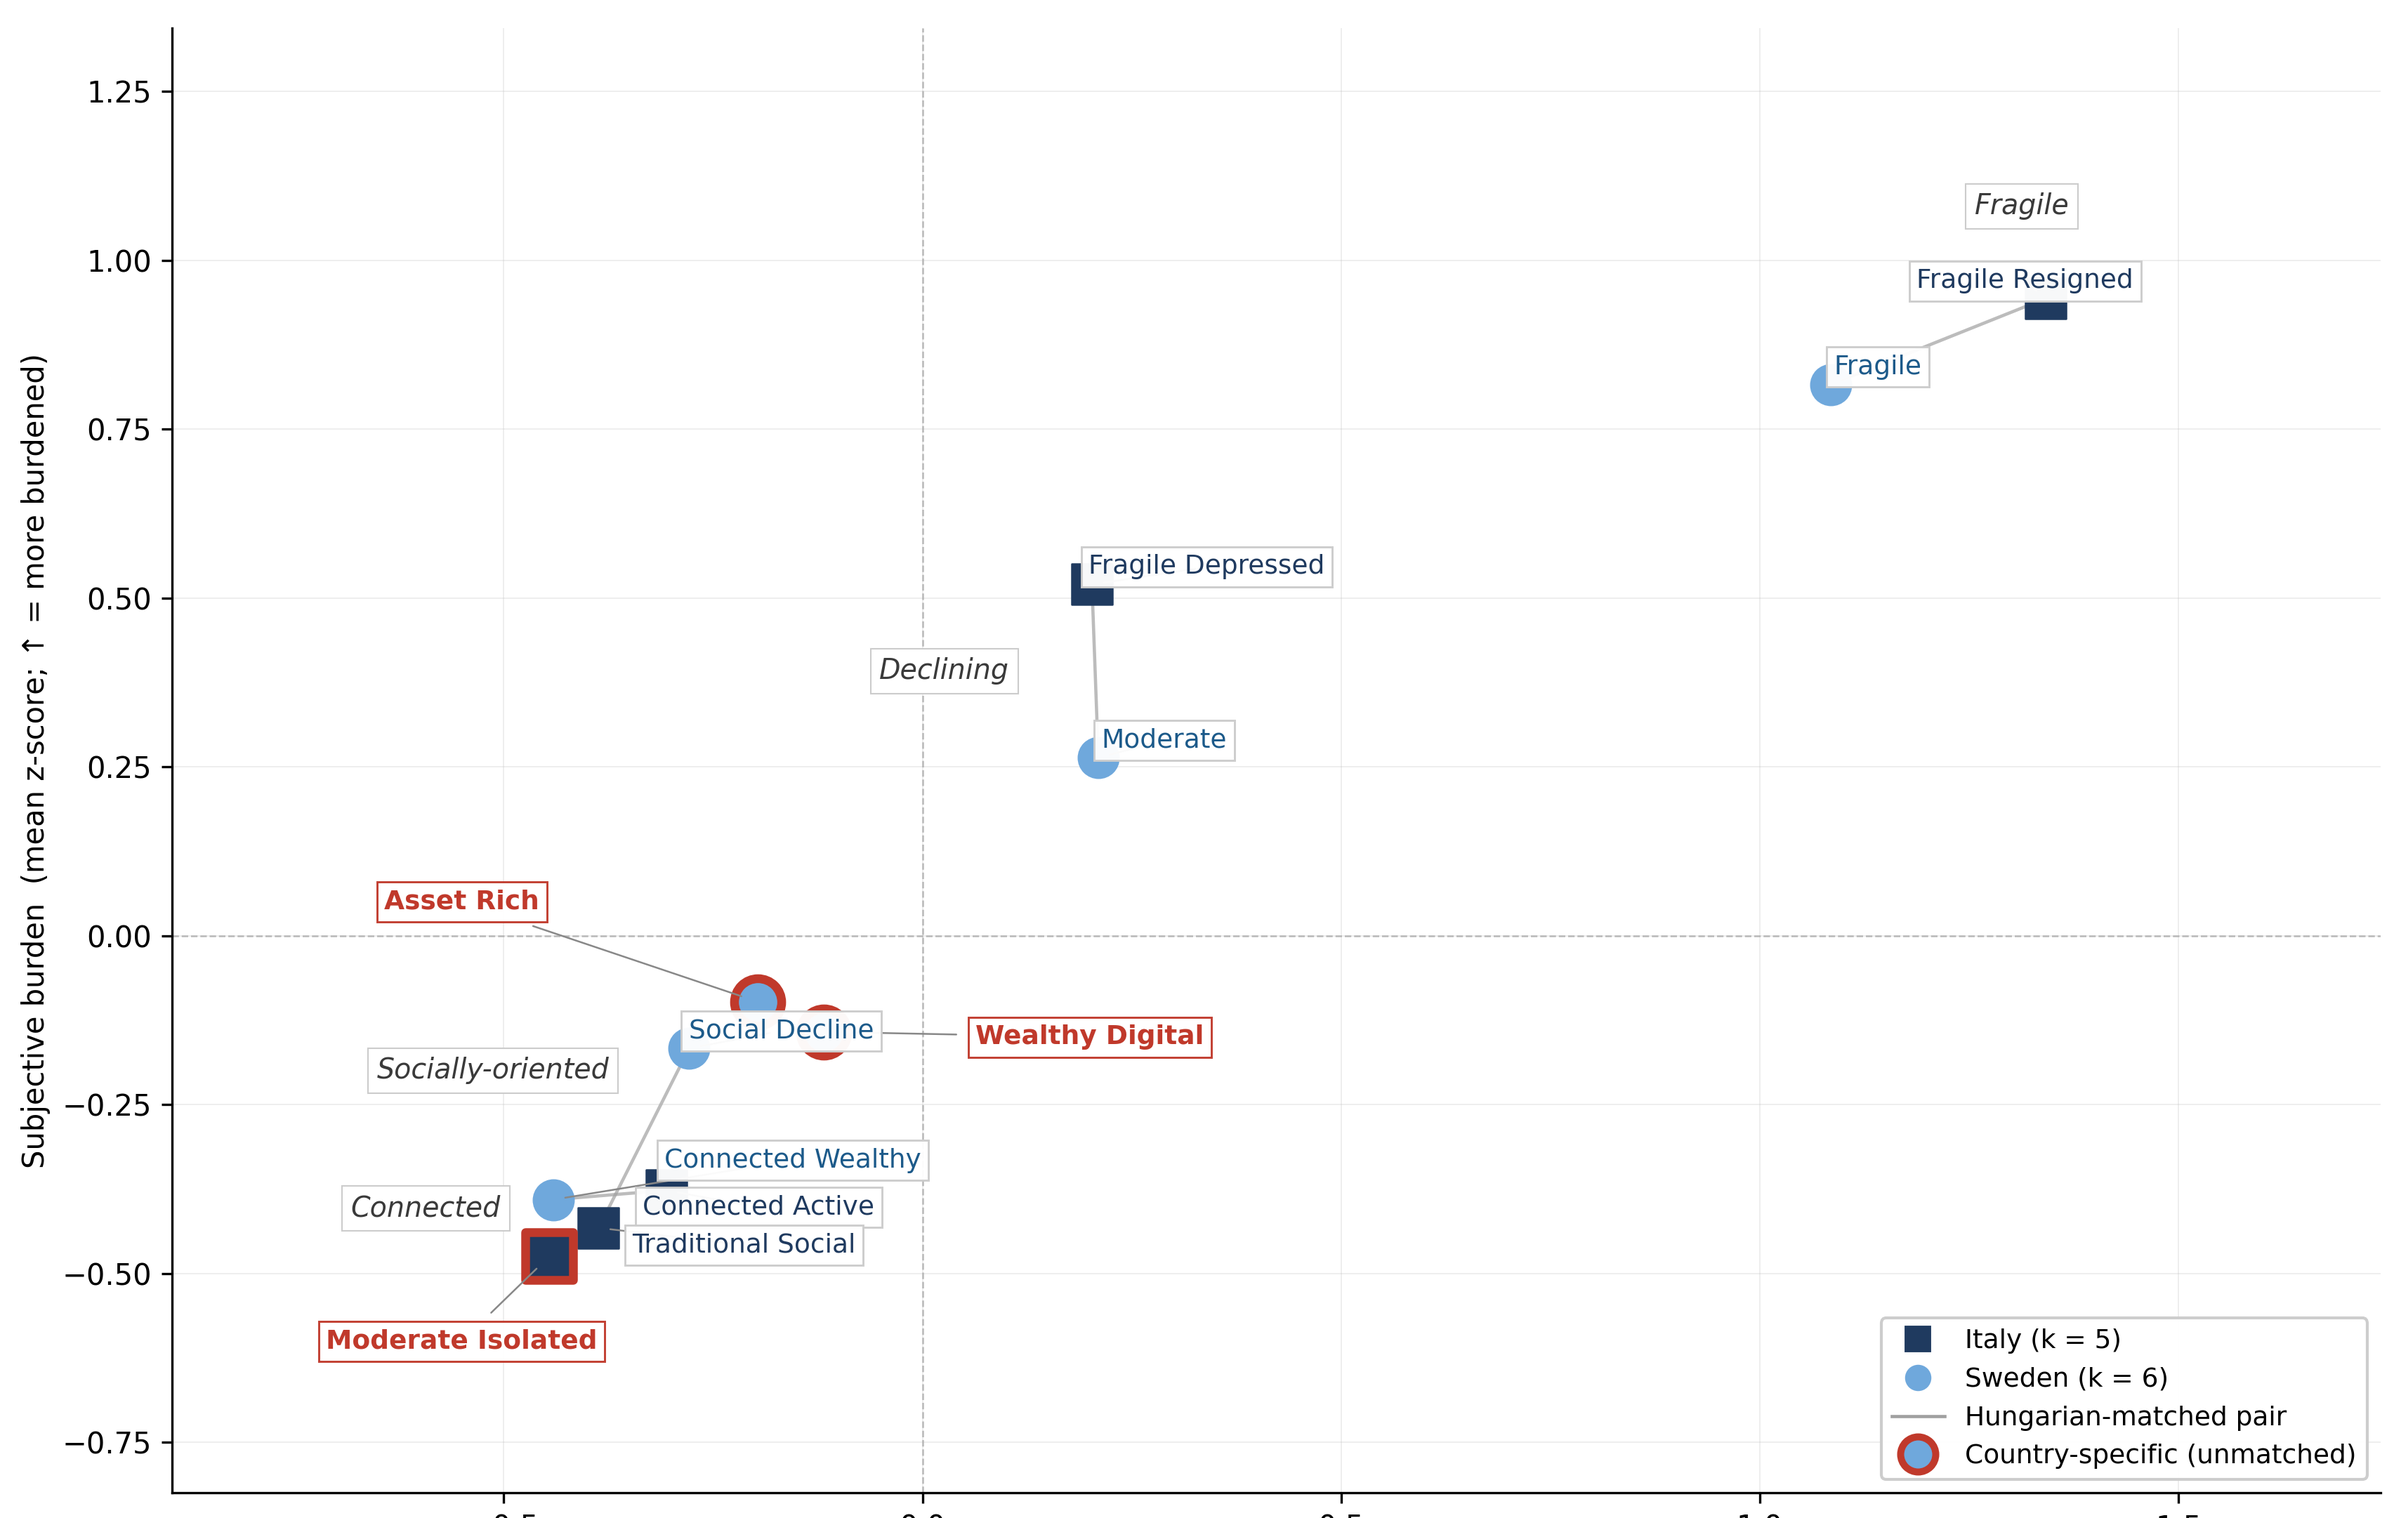
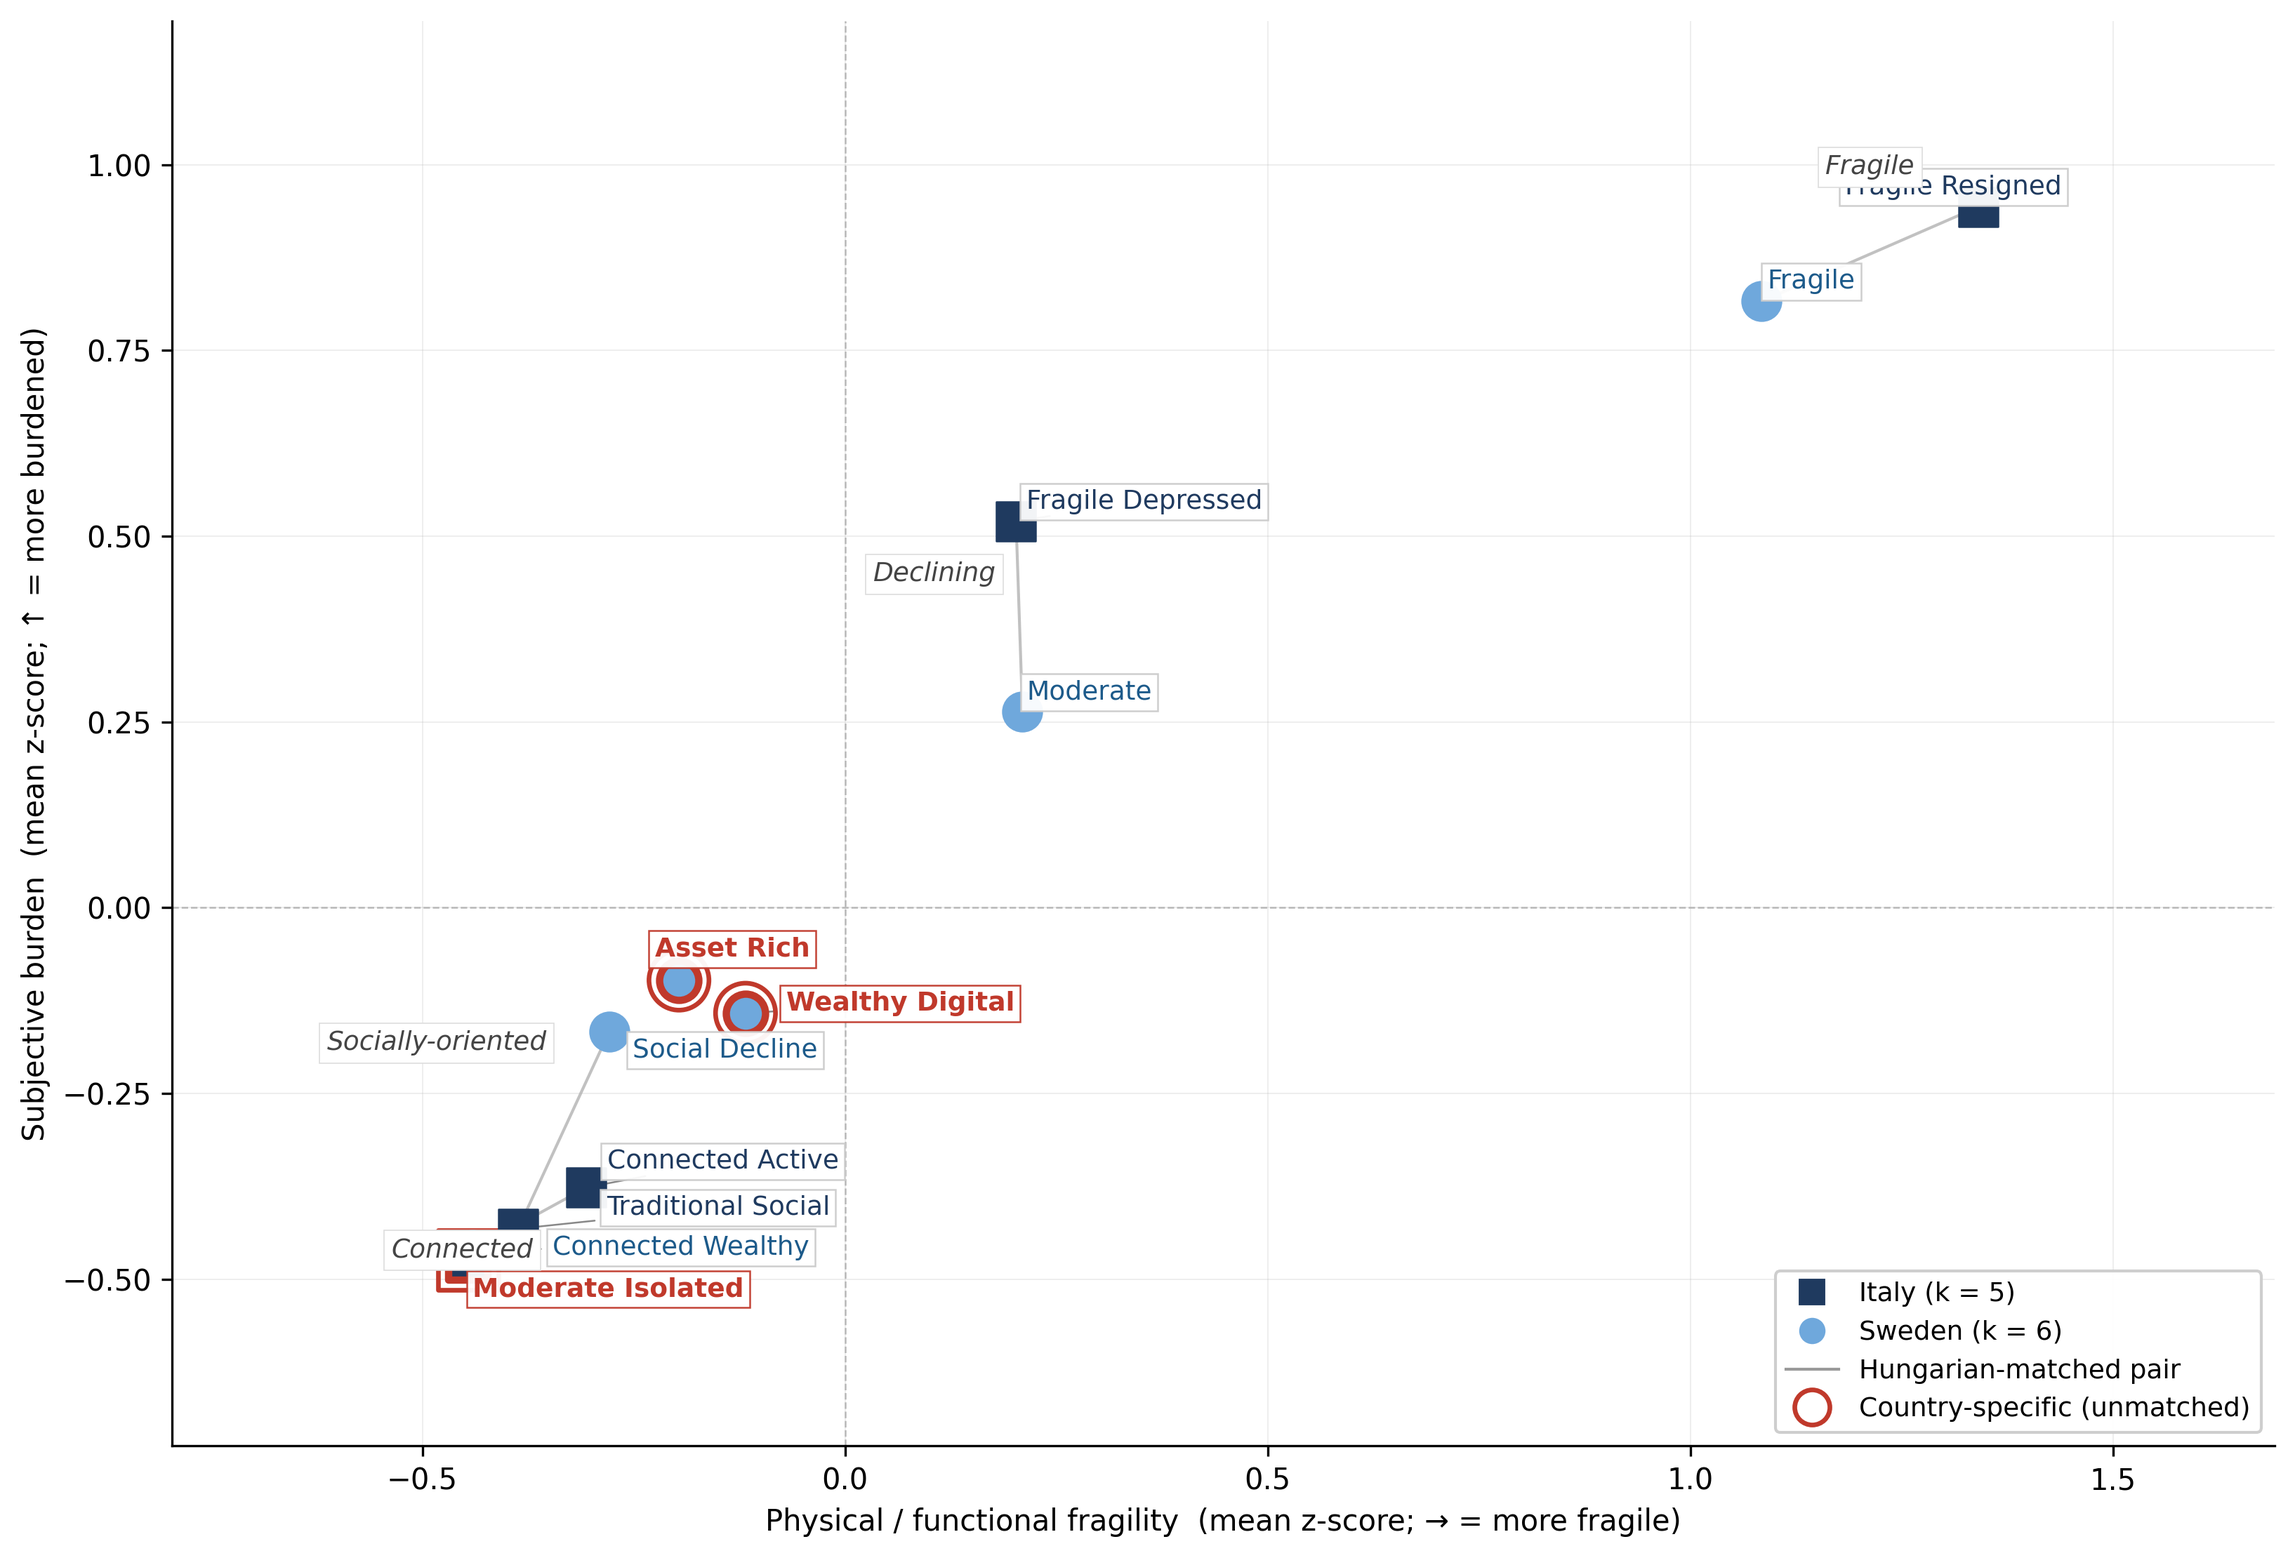
fig(6.1): adjustText anti-overlap + titolo asse x + path script portabili

diff --git a/scripts/make_fig_6_1.py b/scripts/make_fig_6_1.py
@@ -1,0 +1,245 @@
+"""
+Regenerate Fig 6.1 — Italian and Swedish cluster centroids on the joint
+fragility-and-burden plane.
+
+Fixes vs the original 18 May version:
+  - Red ring outlines only on the 3 unmatched profiles
+    (Moderate Isolated IT, Asset Rich SE, Wealthy Digital SE).
+  - Pair-name italic annotations placed at the midpoint of each connecting line
+    with a white background box, so they survive marker overlap.
+  - Profile labels positioned automatically with adjustText so the bottom-left
+    cluster does not collide.
+  - Larger figure footprint (full-page) for breathing room.
+"""
+
+import json
+import os
+from pathlib import Path
+
+import matplotlib
+matplotlib.use("Agg")
+import matplotlib.pyplot as plt
+from matplotlib.patches import Patch
+from matplotlib.lines import Line2D
+from adjustText import adjust_text
+
+# Paths are resolved relative to this script's location so the figure can be
+# regenerated from the project root on any machine (no hard-coded session path).
+ROOT = Path(__file__).resolve().parent.parent
+CENTROIDS_PATH = ROOT / "v9" / "outputs" / "centroids.json"
+OUT_PATH = (
+    ROOT / "Invisible_Profiles_LaTeX_Overleaf" / "figures"
+    / "06_cross_country" / "fig_6_1_matched_pair_scatter.png"
+)
+
+# Axis definitions per caption of Fig 6.1:
+#  X = physical/functional fragility: mean z(sphus, chronic, ADL, IADL, mobility, phinact)
+#  Y = subjective burden: (mean z(eurod, loneliness) - mean z(casp, hope_future)) / 2
+PHYS_VARS = ["sphus", "chronic", "adl", "iadl", "mobility", "phinact"]
+SUBJ_NEG = ["eurod", "loneliness"]   # higher = more burdened
+SUBJ_POS = ["casp", "hope_future"]   # higher = better → flip sign
+
+
+def project(profile, var_names):
+    """Project a centroid into the (physical, subjective) z-score plane."""
+    idx = {v: i for i, v in enumerate(var_names)}
+    c = profile["center"]
+    phys = sum(c[idx[v]] for v in PHYS_VARS) / len(PHYS_VARS)
+    neg = sum(c[idx[v]] for v in SUBJ_NEG) / len(SUBJ_NEG)
+    pos = sum(c[idx[v]] for v in SUBJ_POS) / len(SUBJ_POS)
+    subj = (neg - pos) / 2
+    return phys, subj
+
+
+def main():
+    with open(CENTROIDS_PATH) as f:
+        d = json.load(f)
+
+    it_vars = [v["name"] for v in d["italy_full"]["variables"]]
+    se_vars = [v["name"] for v in d["sweden_full"]["variables"]]
+
+    it = {p["name"]: project(p, it_vars) for p in d["italy_full"]["profiles"]}
+    se = {p["name"]: project(p, se_vars) for p in d["sweden_full"]["profiles"]}
+
+    # Hungarian-matched pairs (from §6.2 / Table 6.1)
+    pairs = [
+        ("Fragile",          "Fragile Resigned",   "Fragile"),
+        ("Declining",        "Fragile Depressed",  "Moderate"),
+        ("Connected",        "Connected Active",   "Connected Wealthy"),
+        ("Socially-oriented", "Traditional Social", "Social Decline"),
+    ]
+    # Unmatched (country-specific) profiles
+    unmatched_it = {"Moderate Isolated"}
+    unmatched_se = {"Asset Rich", "Wealthy Digital"}
+
+    # Colours coherent with the rest of the thesis (sober blue palette,
+    # IT darker / SE lighter — matches Fig 1.1 and Fig 6.2).
+    IT_COLOR = "#1f3a5f"   # dark navy
+    SE_COLOR = "#6fa8dc"   # light blue
+    RED_RING = "#c0392b"
+
+    fig, ax = plt.subplots(figsize=(11, 7.5), dpi=200)
+
+    # --- 1. Connecting lines for matched pairs (drawn first, behind markers)
+    for pair_name, it_label, se_label in pairs:
+        x1, y1 = it[it_label]
+        x2, y2 = se[se_label]
+        ax.plot(
+            [x1, x2], [y1, y2],
+            color="#999999", lw=1.0, alpha=0.6, zorder=1,
+        )
+
+    # --- 2. Markers
+    # Italy (squares)
+    for label, (x, y) in it.items():
+        is_unmatched = label in unmatched_it
+        ax.scatter(
+            x, y,
+            marker="s", s=180,
+            facecolor=IT_COLOR, edgecolor=(RED_RING if is_unmatched else IT_COLOR),
+            linewidths=(2.5 if is_unmatched else 0.6),
+            zorder=3,
+        )
+        if is_unmatched:
+            # Extra outer red ring for stronger affordance
+            ax.scatter(
+                x, y, marker="s", s=420,
+                facecolor="none", edgecolor=RED_RING,
+                linewidths=1.6, zorder=2,
+            )
+
+    # Sweden (circles)
+    for label, (x, y) in se.items():
+        is_unmatched = label in unmatched_se
+        ax.scatter(
+            x, y,
+            marker="o", s=180,
+            facecolor=SE_COLOR, edgecolor=(RED_RING if is_unmatched else SE_COLOR),
+            linewidths=(2.5 if is_unmatched else 0.6),
+            zorder=3,
+        )
+        if is_unmatched:
+            ax.scatter(
+                x, y, marker="o", s=420,
+                facecolor="none", edgecolor=RED_RING,
+                linewidths=1.6, zorder=2,
+            )
+
+    # --- 3. Pair-name annotations at the midpoint of each connecting line
+    # Manual nudge per pair so annotations don't sit on top of the line itself
+    pair_nudges = {
+        "Fragile":           ( 0.00,  0.10),
+        "Declining":         (-0.10,  0.04),
+        "Connected":         (-0.08, -0.06),   # pushed below-left to clear cluster
+        "Socially-oriented": (-0.15,  0.10),   # pushed up-left to clear Social Decline label
+    }
+    for pair_name, it_label, se_label in pairs:
+        x1, y1 = it[it_label]
+        x2, y2 = se[se_label]
+        xm, ym = (x1 + x2) / 2, (y1 + y2) / 2
+        dx, dy = pair_nudges.get(pair_name, (0.0, 0.06))
+        ax.text(
+            xm + dx, ym + dy, pair_name,
+            fontsize=9, style="italic", color="#444444",
+            ha="center", va="bottom",
+            bbox=dict(
+                facecolor="white", edgecolor="#dddddd", linewidth=0.4,
+                pad=2.5, alpha=1.0,
+            ),
+            zorder=6,   # above profile labels so pair annotations are never covered
+        )
+
+    # --- 4. Profile labels with adjustText (auto-positioned with leader lines)
+    texts = []
+    for label, (x, y) in it.items():
+        is_unmatched = label in unmatched_it
+        txt = ax.text(
+            x, y, label,
+            fontsize=9, color=(RED_RING if is_unmatched else IT_COLOR),
+            fontweight=("bold" if is_unmatched else "normal"),
+            bbox=dict(
+                facecolor="white",
+                edgecolor=(RED_RING if is_unmatched else "#cccccc"),
+                linewidth=0.6, pad=2, alpha=0.95,
+            ),
+            zorder=5,
+        )
+        texts.append(txt)
+    for label, (x, y) in se.items():
+        is_unmatched = label in unmatched_se
+        txt = ax.text(
+            x, y, label,
+            fontsize=9, color=(RED_RING if is_unmatched else "#1c5a8a"),
+            fontweight=("bold" if is_unmatched else "normal"),
+            bbox=dict(
+                facecolor="white",
+                edgecolor=(RED_RING if is_unmatched else "#cccccc"),
+                linewidth=0.6, pad=2, alpha=0.95,
+            ),
+            zorder=5,
+        )
+        texts.append(txt)
+
+    adjust_text(
+        texts, ax=ax,
+        expand=(1.4, 1.6),
+        force_text=(0.6, 0.9),
+        force_static=(0.4, 0.6),
+        arrowprops=dict(
+            arrowstyle="-",
+            color="#888888",
+            lw=0.6, shrinkA=4, shrinkB=4,
+        ),
+    )
+
+    # --- 5. Axis cosmetics
+    ax.axhline(0, color="#bbbbbb", lw=0.6, ls="--", zorder=0)
+    ax.axvline(0, color="#bbbbbb", lw=0.6, ls="--", zorder=0)
+    ax.set_xlabel(
+        "Physical / functional fragility  (mean z-score; → = more fragile)",
+        fontsize=10,
+    )
+    ax.set_ylabel(
+        "Subjective burden  (mean z-score; ↑ = more burdened)",
+        fontsize=10,
+    )
+    # No internal title: the LaTeX \caption of Figure 6.1 supplies it, and a
+    # baked-in title would duplicate the caption (thesis convention: figures
+    # carry no internal title).
+    ax.grid(True, alpha=0.25, lw=0.4)
+    ax.spines["top"].set_visible(False)
+    ax.spines["right"].set_visible(False)
+
+    # --- 6. Custom legend
+    legend_elements = [
+        Line2D([0], [0], marker="s", color="w", markerfacecolor=IT_COLOR,
+               markersize=10, label="Italy (k = 5)"),
+        Line2D([0], [0], marker="o", color="w", markerfacecolor=SE_COLOR,
+               markersize=10, label="Sweden (k = 6)"),
+        Line2D([0], [0], color="#999999", lw=1.0, label="Hungarian-matched pair"),
+        Line2D([0], [0], marker="o", color="w",
+               markerfacecolor="white", markeredgecolor=RED_RING, markeredgewidth=1.6,
+               markersize=12, label="Country-specific (unmatched)"),
+    ]
+    ax.legend(
+        handles=legend_elements, loc="lower right",
+        fontsize=9, frameon=True, framealpha=0.95, edgecolor="#cccccc",
+    )
+
+    # --- 7. Set axis limits with margin
+    xs = [v[0] for v in list(it.values()) + list(se.values())]
+    ys = [v[1] for v in list(it.values()) + list(se.values())]
+    xpad = 0.35
+    ypad = 0.25
+    ax.set_xlim(min(xs) - xpad, max(xs) + xpad)
+    ax.set_ylim(min(ys) - ypad, max(ys) + ypad)
+
+    plt.tight_layout()
+
+    plt.savefig(OUT_PATH, dpi=300, bbox_inches="tight")
+    print(f"Saved: {OUT_PATH}")
+    plt.close()
+
+
+if __name__ == "__main__":
+    main()
